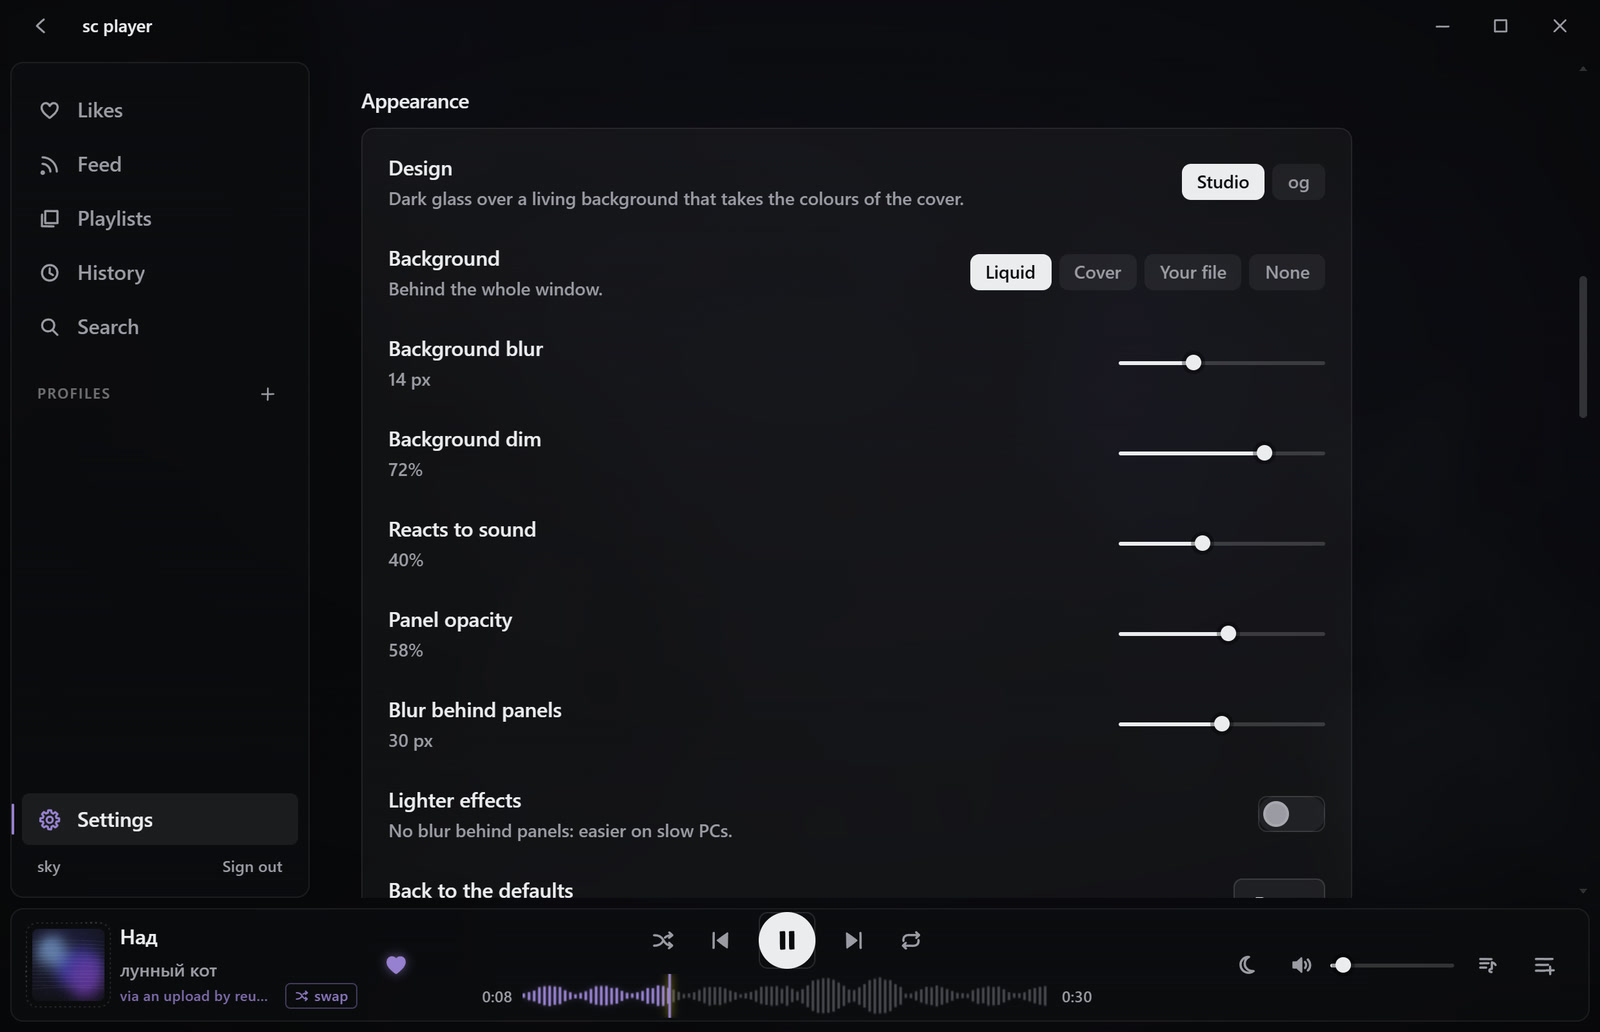
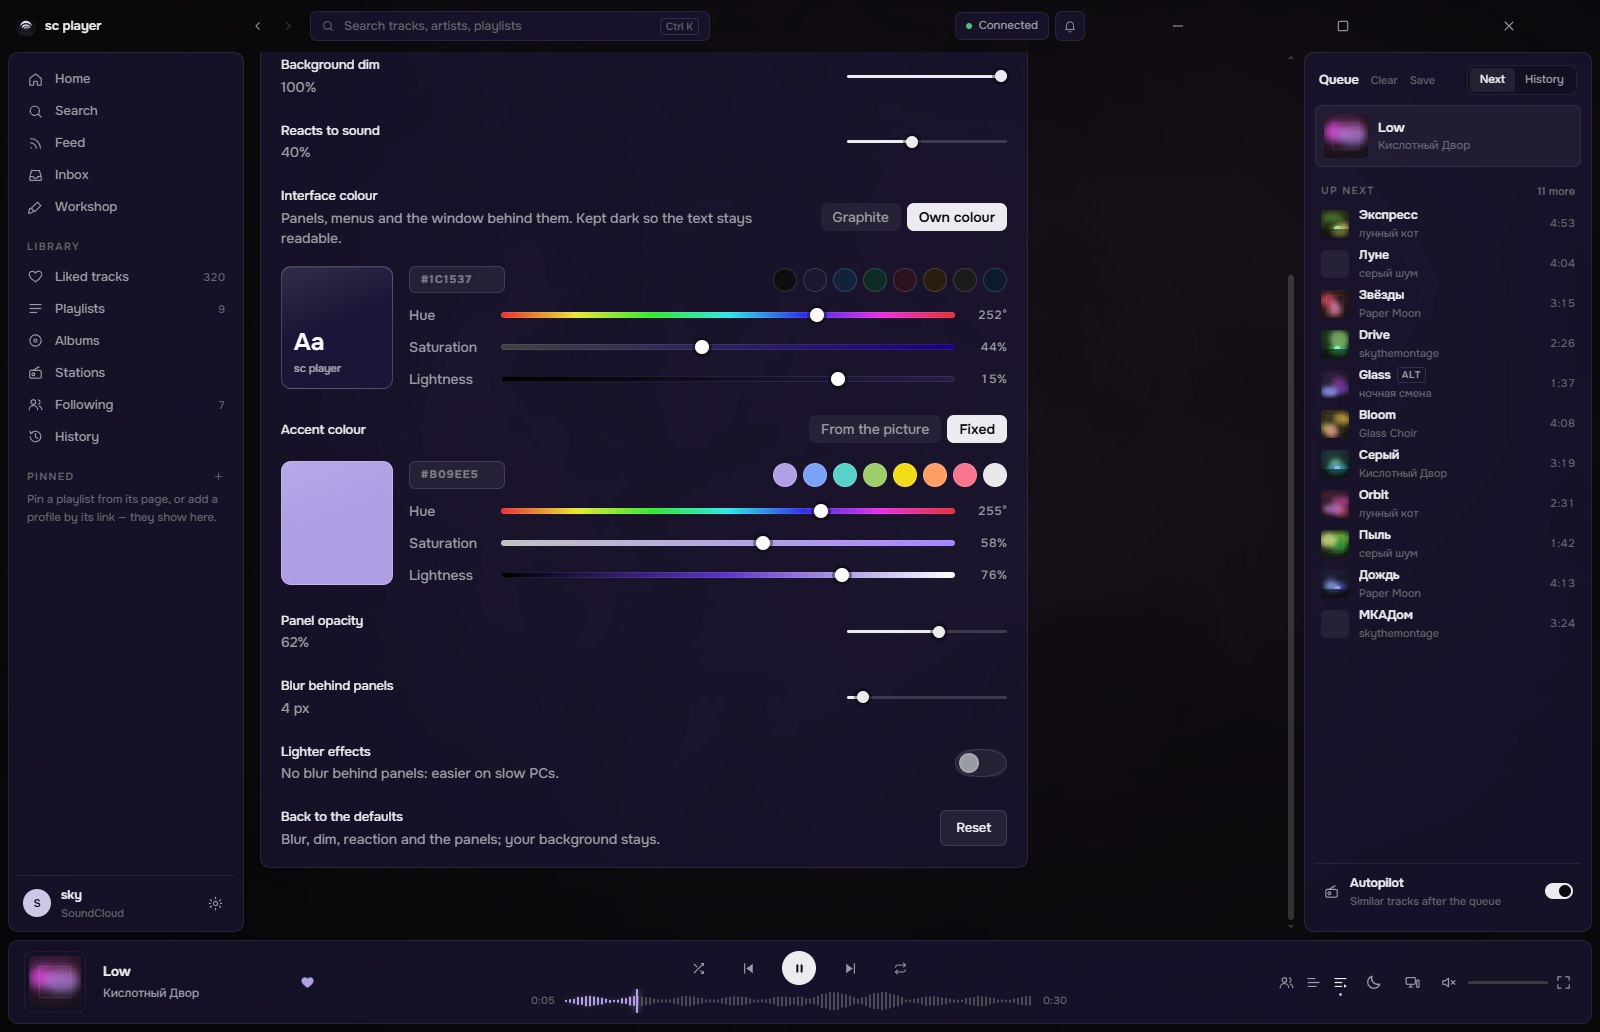
sc player 2.0: version 2.0.0, README for 2.0 with new screenshots (demo data, own lyrics)

diff --git a/README.md b/README.md
@@ -4,7 +4,7 @@
 
 # sc player
 
-**A SoundCloud player for Windows — no ads, a living background, and a shuffle that really shuffles.**
+**A SoundCloud player for Windows — no ads, lyrics word by word, and friends to listen with.**
 
 [Download](../../releases/latest) •
 [Features](#features) •
@@ -17,7 +17,7 @@
 
 <br/>
 
-<img src=".github/assets/hero.jpg" alt="sc player — likes over the cover of the track that's playing" width="100%" />
+<img src=".github/assets/hero.jpg" alt="sc player — the Home page over a living background" width="100%" />
 
 </div>
 
@@ -29,12 +29,19 @@
   <table>
     <tr>
       <td align="center" width="50%">
-        <img src=".github/assets/queue.jpg" alt="The queue next to your likes" />
+        <img src=".github/assets/fullscreen.jpg" alt="The full screen player with lyrics lit word by word" />
         <br/>
-        <sub><b>Queue</b></sub>
+        <sub><b>Lyrics, word by word</b></sub>
       </td>
       <td align="center" width="50%">
-        <img src=".github/assets/appearance.jpg" alt="Settings → Appearance" />
+        <img src=".github/assets/rooms.jpg" alt="A listening room with friends next to the Home page" />
+        <br/>
+        <sub><b>Listen together</b></sub>
+      </td>
+    </tr>
+    <tr>
+      <td align="center" colspan="2">
+        <img src=".github/assets/appearance.jpg" alt="Settings → Appearance with an own interface colour and accent" width="50%" />
         <br/>
         <sub><b>Make it yours</b></sub>
       </td>
@@ -50,36 +57,41 @@
 
 ## Features
 
+**Together**
+- **Listening rooms:** invite friends and everyone hears the same track at the same second. Pause is shared; the host
+  puts on tracks or a whole playlist, the others suggest theirs; the host can hand the room over, and when the queue
+  runs out similar tracks keep it going.
+- **Send tracks to friends:** friend codes (no accounts), an Inbox, what your friends are listening to right now, and an
+  invite link to send in any messenger.
+- **On Home:** what your friends are playing and what people listen to on sc player (anonymous).
+
+**Lyrics**
+- From [Better Lyrics](https://betterlyrics.org) (often timed word by word), its community catalog Unison and
+  [LRCLIB](https://lrclib.net); click a line to jump there.
+- Words that come without timings can be matched to the song on your computer (Settings → Playback → Lyrics; an
+  optional speech model, the sound never leaves your PC). Timings made for another upload are moved to fit this one.
+- **Full screen player:** a big cover with a spectrum around it or along the bottom, and the words lighting up as
+  they're sung.
+
 **The look**
-- **Studio design:** dark glass over a living background that takes the colours of the cover and drifts with the music.
-  The accent follows every track; a thin spectrum lines the cover in the player.
-- **Your background:** the liquid colours, the cover itself, your own image, GIF or video — or nothing.
-- **Knobs** in Settings → Appearance: background blur, dim and how much it reacts to sound; panel opacity and the blur
-  behind them; lighter effects for slow PCs.
-- **og:** the hand-drawn night sky of 1.x is one click away — clouds in three layers, stars that twinkle with the
-  hi-hats, a sky that takes the colour of the cover.
+- Dark glass over a living background that takes the colours of the cover — or the cover itself, your own image, GIF
+  or video.
+- Your own interface colour and accent, blur, dim, panel opacity; lighter effects for slow PCs.
+- **Workshop:** publish your look and install other people's.
 
-**Your library**
-- Likes, playlists (yours and liked ones), albums, history, the feed of people you follow, any public profile.
-- Find and sort inside likes, playlists and a profile's tracks. Pin profiles to the sidebar.
-- ♥ the track that's playing, add it to one of your playlists from the right-click menu.
-
-**Playback**
-- **Honest shuffle:** the whole playlist or all your likes, not just the tracks that happened to load.
-- **Autopilot:** when the list ends, similar tracks keep playing (can be turned off).
-- **Protected tracks:** when SoundCloud only streams a track with DRM or as a 30-second preview, sc player looks for
-  another upload of the same recording and plays that (marked `ALT`; "try another" if it's the wrong one).
-- **Lyrics** from [Better Lyrics](https://betterlyrics.org) (often timed word by word), its community catalog Unison
-  and [LRCLIB](https://lrclib.net); click a line to jump there. Words that come without timings can be matched to the
-  song on your computer (Settings → Lyrics; an optional speech model, the sound never leaves your PC).
-- Seek on the waveform, a queue you can drag, repeat, crossfade, a 10-band equalizer with presets, output device,
-  sleep timer.
+**Your music**
+- Likes, playlists, albums, stations, history, the feed of people you follow, any public profile; pin playlists and
+  profiles to the sidebar.
+- **Your own playlists:** make them, add to them, reorder, rename — kept on your computer, no sign-in needed; copy any
+  SoundCloud playlist to change it, save the queue as one, export them to a file and back.
+- **Honest shuffle** over the whole playlist or all your likes; **autopilot** keeps playing similar tracks.
+- **Protected tracks:** when SoundCloud only streams a track with DRM or as a 30-second preview, sc player plays
+  another upload of the same recording, checked by its sound (marked `ALT`).
+- Seek on the waveform, a queue you can drag, crossfade, a 10-band equalizer, output device, sleep timer.
 
 **Windows**
-- Media keys, the system media overlay with the cover, ⏮ ⏯ ⏭ under the taskbar preview.
-- Tray, global hotkeys, notifications, start with Windows, an optional track card in a corner of the screen.
-- Updates itself: the app tells you about a new version and installs it.
-- Nothing moves while the window is hidden — only the sound keeps going.
+- Media keys, the system media overlay, ⏮ ⏯ ⏭ under the taskbar preview, tray, global hotkeys, notifications.
+- Updates itself. Nothing moves while the window is hidden — only the sound keeps going.
 
 ---
 
@@ -91,23 +103,24 @@
 2. The app isn't code-signed, so Windows may say "Windows protected your PC": click **More info → Run anyway**.
 3. Click **Sign in to SoundCloud** to see your likes and playlists. If the sign-in window says "access temporarily
    restricted" or "something unexpected happened", use **Sign in with your browser** instead. Without signing in you can
-   open any public profile by pasting a `https://soundcloud.com/…` link.
+   still search, listen, make playlists and open any public profile.
 
-New versions install over the old one; your sign-in and settings stay.
+New versions install over the old one; your sign-in, settings and playlists stay.
 
 ---
 
 ## Good to know
 
-- Some tracks are only streamed encrypted (DRM — usually monetized and major-label releases). If no other upload of the
-  same recording exists, the track is marked `PROTECTED` and skipped.
+- Some tracks are only streamed encrypted (DRM). If no other upload of the same recording exists, the track says
+  `SoundCloud only` and opens on soundcloud.com.
+- SoundCloud's bot protection doesn't let apps change playlists on SoundCloud, so the playlists you make here are kept
+  on your computer (Export them now and then — they don't travel with your SoundCloud account).
 - If SoundCloud changes its site, the app shows an error with **Retry**; if that doesn't help, check for a
-  [new version](../../releases/latest).
-- When SoundCloud's bot protection stops a like or a playlist add, the app opens its check in a window — pass it once
-  and try again.
-- soundcloud.com is blocked in Russia. The community guide for getting it back with zapret:
+  [new version](../../releases/latest). Something broken? Settings → Account → **Report a problem**.
+- Settings → Network: **Automatic** uses your own connection, and sc player's own route to SoundCloud only when
+  SoundCloud doesn't open over it. The community guide for SoundCloud in Russia with zapret:
   [«Как починить SoundCloud с помощью zapret»](https://github.com/Flowseal/zapret-discord-youtube/issues/7449)
-  (by kkkwkswd). A proxy can also be set in Settings → Network.
+  (by kkkwkswd).
 
 ---
 
@@ -120,14 +133,6 @@ New versions install over the old one; your sign-in and settings stay.
 - **[Whisper](https://github.com/openai/whisper)** by OpenAI (MIT) — the speech model that matches plain lyrics to the
   song on your computer.
 - The zapret guide for SoundCloud by kkkwkswd.
-
-<details>
-<summary>Prefer the night sky?</summary>
-<br/>
-<img src=".github/assets/og.jpg" alt="The og design: the hand-drawn night sky" width="100%" />
-<br/>
-Settings → Appearance → Design → <b>og</b>.
-</details>
 
 ---
 
